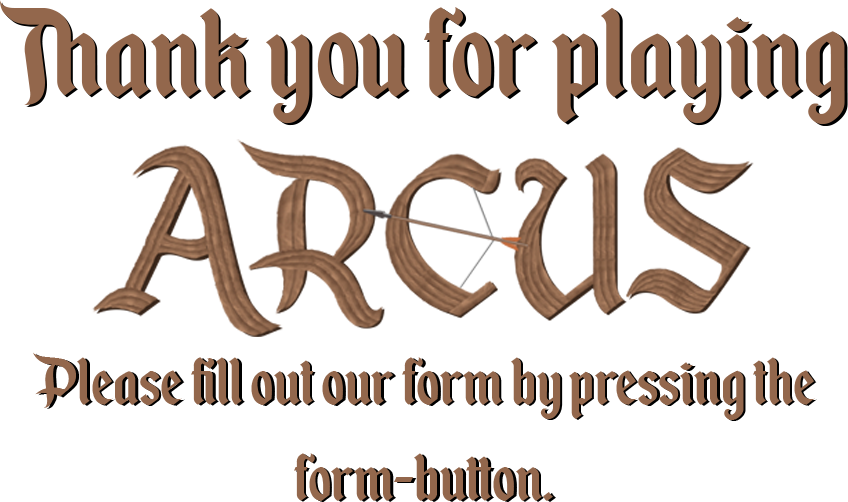
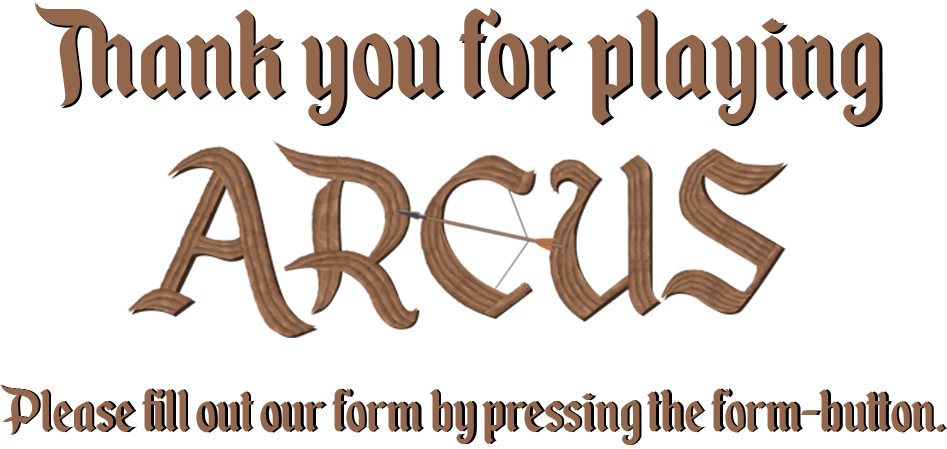
asd

diff --git a/StortSpelprojekt/Project/Win.cpp b/StortSpelprojekt/Project/Win.cpp
@@ -7,52 +7,38 @@ void Win::MainMenu()
 
 void Win::BackToMainMenu()
 {
+	currentCanvas = canvases["WIN"];
 }
 
 void Win::HoveringMainMenu()
 {
-	canvases[""]->GetImage("Leaves")->Show();
-
-}
-
-void Win::QuitGame()
-{
-	quit = true;
-}
-
-void Win::HoveringQuit()
-{
-	canvases[""]->GetImage("Leaves")->Show();
-
+	canvases["WIN"]->GetImage("MainMenuLeaves")->Show();
 }
 
 void Win::Form()
 {
+	ShellExecute(0, 0, L"https://docs.google.com/forms/d/1wSGU7CwBNTTCu50nsunQX2Q9DC06SEi5SAqbgJstgb0/viewform?edit_requested=true", 0, 0, SW_SHOW);
 }
 
 void Win::HoveringForm()
 {
-	canvases[""]->GetImage("FormLeaves")->Show();
+	canvases["WIN"]->GetImage("FormLeaves")->Show();
 }
 
-void Win::Exit()
+void Win::QuitCanvas()
 {
-}
-
-void Win::Back()
-{
+	currentCanvas = canvases["QUIT"];
 }
 
 void Win::HoveringYes()
 {
-	canvases[""]->GetImage("Leaves")->Show();
+	canvases["QUIT"]->GetImage("YesLeaves")->Show();
 
 }
 
 void Win::HoveringNo()
 {
-	canvases[""]->GetImage("Leaves")->Show();
-
+	canvases["QUIT"]->GetImage("NoLeaves")->Show();
 }
 
 Win::Win(UINT clientWidth, UINT clientHeight, HWND window)
@@ -61,15 +47,44 @@ Win::Win(UINT clientWidth, UINT clientHeight, HWND window)
 	terrainRenderer(FORWARD),
 	water(5000), terrain(2)
 {
-
 	Audio::AddAudio(L"Audio/Win.wav",0);
 	Audio::SetVolume(0.005,0);
 	Audio::StartAudio(0);
 	
 	Initialize();
 	float xPos = 75;
-	auto winCanvas = new Canvas();
+	auto winCanvas = std::make_shared<Canvas>();
 	winCanvas->AddImage({ clientWidth / 2.0f, clientHeight / 2.0f - 250 }, "ThankYou", "ThankYou.png", 1.0f, 1.0f, true, true);
+
+	{
+		//MAIN MENU
+		winCanvas->AddImage({ clientWidth / 2.0f, (float)clientHeight / 2.0f + 300.0f}, "MainMenu", "MainMenu.png", 0.95f, 1.0f, true, true);
+		winCanvas->AddImage({ clientWidth / 2.0f, (float)clientHeight / 2.0f + 300.0f }, "MainMenuLeaves", "MainMenuLeaves.png", 0.95f, 1.0f, true, true);
+		auto image = winCanvas->GetImage("MainMenu");
+		winCanvas->AddButton({ image->GetLeftSidePosition().x + image->GetWidth() / 2, image->GetLeftSidePosition().y + image->GetHeight() / 2 }, "MainMenuButton", image->GetWidth(), image->GetHeight(), UI::COLOR::GRAY, [this] { QuitCanvas(); }, [this] { HoveringMainMenu(); });
+	}
+	{
+		// FORM
+		winCanvas->AddImage({ clientWidth / 2.0f, (float)clientHeight / 2.0f + 225.0f }, "Form", "Form.png", 0.95f, 1.0f, true, true);
+		winCanvas->AddImage({ clientWidth / 2.0f, (float)clientHeight / 2.0f + 225.0f }, "FormLeaves", "FormLeaves.png", 0.95f, 1.0f, true, true);
+		auto image = winCanvas->GetImage("Form");
+		winCanvas->AddButton({ image->GetLeftSidePosition().x + image->GetWidth() / 2, image->GetLeftSidePosition().y + image->GetHeight() / 2 }, "FormButton", image->GetWidth(), image->GetHeight(), UI::COLOR::GRAY, [this] { Form(); }, [this] { HoveringForm(); });
+	}
+
+	auto quitGameCanvas = std::make_shared<Canvas>();
+	{
+		//YES NO
+		quitGameCanvas->AddImage({ clientWidth / 2.0f,  clientHeight / 2.0f - 200 }, "AreYouSure", "AreYouSure.png", 1.f, 1.0f, true, true);
+		quitGameCanvas->AddImage({ clientWidth / 2.0f + 180, clientHeight / 2.0f + 50 }, "Yes", "Yes.png", 1.0f, 1.0f, true, true);
+		quitGameCanvas->AddImage({ clientWidth / 2.0f + 180, clientHeight / 2.0f + 50 }, "YesLeaves", "YesLeaves.png", 1.0f, 1.0f, true, true);
+		quitGameCanvas->AddImage({ clientWidth / 2.0f - 180, clientHeight / 2.0f + 50 }, "No", "No.png", 1.0f, 1.0f, true, true);
+		quitGameCanvas->AddImage({ clientWidth / 2.0f - 180, clientHeight / 2.0f + 50 }, "NoLeaves", "NoLeaves.png", 1.0f, 1.0f, true, true);
+		auto yesImage = quitGameCanvas->GetImage("Yes");
+		auto noImage = quitGameCanvas->GetImage("No");
+		quitGameCanvas->AddButton({ yesImage->GetLeftSidePosition().x + yesImage->GetWidth() / 2, yesImage->GetLeftSidePosition().y + yesImage->GetHeight() / 2 }, "YesButton", yesImage->GetWidth(), yesImage->GetHeight(), UI::COLOR::GRAY, [this] { MainMenu(); }, [this] { HoveringYes(); });
+		quitGameCanvas->AddButton({ noImage->GetLeftSidePosition().x + noImage->GetWidth() / 2, noImage->GetLeftSidePosition().y + noImage->GetHeight() / 2 }, "NoButton", noImage->GetWidth(), noImage->GetHeight(), UI::COLOR::GRAY, [this] { BackToMainMenu(); }, [this] { HoveringNo(); });
+	}
+	canvases["QUIT"] = quitGameCanvas;
 
 	canvases["WIN"] = winCanvas;
 	currentCanvas = winCanvas;
@@ -88,8 +103,6 @@ Win::Win(UINT clientWidth, UINT clientHeight, HWND window)
 
 Win::~Win()
 {
-	for (auto& [name, canvas] : canvases)
-		delete canvas;
 }
 
 void Win::Render()
@@ -138,17 +151,13 @@ void Win::Initialize()
 	}
 }
 
-void Win::Continue()
-{
-}
-
-void Win::HoveringContinue()
-{
-}
-
 APPSTATE Win::Run()
 {
 	// LEAVES
+	canvases["WIN"]->GetImage("MainMenuLeaves")->Hide();
+	canvases["WIN"]->GetImage("FormLeaves")->Hide();
+	canvases["QUIT"]->GetImage("YesLeaves")->Hide();
+	canvases["QUIT"]->GetImage("NoLeaves")->Hide();
 
 	currentCanvas->Update();
 	scene.GetCamera()->RotateAroundPoint({ -41.0f, 37.0f, -687.0f }, 40, (Vector3{ 0, -0.6f, -1 } / Vector3(0, -0.6f, -1).Length()));
@@ -158,19 +167,8 @@ APPSTATE Win::Run()
 
 	Render();
 
-
-	if (Event::KeyIsPressed('M'))
-		return APPSTATE::MAIN_MENU;
-
-	if (Event::KeyIsPressed(VK_ESCAPE))
-		return APPSTATE::EXIT;
-
-	if (quit)
-		return APPSTATE::EXIT;
-
 	if (backToMenu)
 		return APPSTATE::MAIN_MENU;
-
 
 	return APPSTATE::NO_CHANGE;
 }

diff --git a/StortSpelprojekt/Project/Win.h b/StortSpelprojekt/Project/Win.h
@@ -18,8 +18,8 @@
 class Win : public ApplicationState
 {
 private:
-	Canvas* currentCanvas;
-	std::map<std::string, Canvas*> canvases;
+	std::shared_ptr<Canvas> currentCanvas;
+	std::map<std::string, std::shared_ptr<Canvas>> canvases;
 
 	ShadowRenderer shadowRenderer;
 	WaterRenderer waterRenderer;
@@ -30,10 +30,7 @@ private:
 	Terrain terrain;
 	Water water;
 
-	bool play = false;
-	bool quit = false;
 	bool backToMenu = false;
-
 
 	void Render();
 	void Initialize();
@@ -45,21 +42,15 @@ private:
 	void BackToMainMenu();
 	void HoveringMainMenu();
 
-	void QuitGame();
-	void HoveringQuit();
 
 	void Form();
 	void HoveringForm();
 
-	void Exit();
-	void Back();
+	void QuitCanvas();
 
 	void HoveringYes();
 	void HoveringNo();;
-
-
 public:
-
 	Win() = default;
 	Win(UINT clientWidth, UINT clientHeight, HWND window);
 	~Win();

diff --git a/StortSpelprojekt/Project/Game.cpp b/StortSpelprojekt/Project/Game.cpp
@@ -950,6 +950,7 @@ void Game::HoveringHowToPlay()
 void Game::HoveringMainMenu()
 {
 	canvases["PAUSED"]->GetImage("BackToMainMenuLeaves")->Show();
+}
 
 void Game::UpdateQuadTree()
 {
